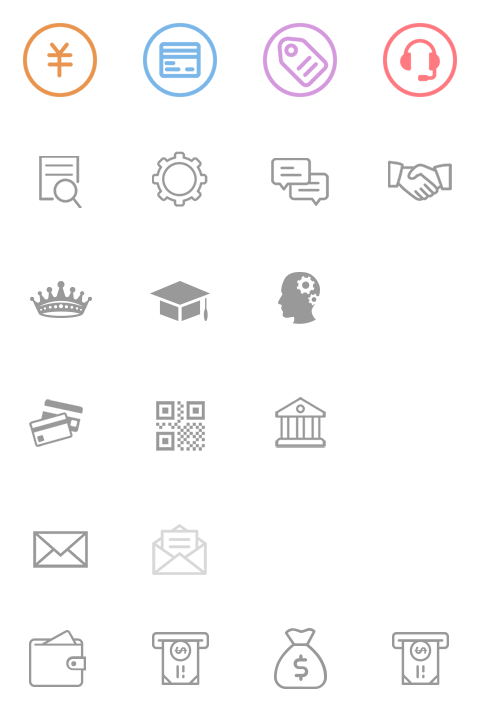
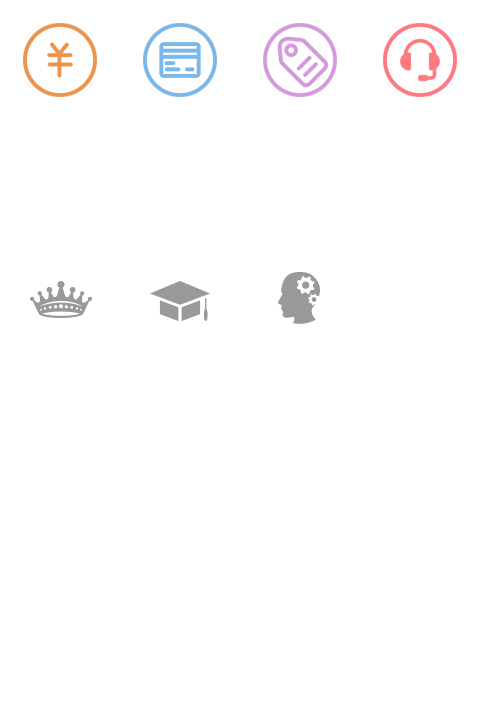
样式调整

diff --git a/static/frist/css/page.css b/static/frist/css/page.css
@@ -260,9 +260,9 @@ img.fixbot { position: fixed; bottom: 0; margin: 0 auto; width: 100%; left: 0; m
 .icon.icon_nav{ background-position: 0 0; }
 .icon.icon_trend{ background-position: -0.64rem 0;}
 .icon.icon_money{ background-position: 0 -0.64rem;}
-.icon.icon_money2{background-position: -2.56rem -1.92rem }
+/*.icon.icon_money2{background-position: -2.56rem -1.92rem }*/
 .icon.icon_user{ background-position: -1.28rem -0.64rem;}
-.icon.icon_user2{background-position: -1.92rem -1.92rem }
+/*.icon.icon_user2{background-position: -1.92rem -1.92rem }*/
 .icon.icon_index{ background-position: -1.92rem -1.28rem;}
 .icon.icon_history{ background-position: -2.56rem -1.28rem;}
 .icon.icon_record{ background-position: -3.2rem -1.28rem;}
@@ -299,12 +299,13 @@ img.fixbot { position: fixed; bottom: 0; margin: 0 auto; width: 100%; left: 0; m
 .icon_account.icon_deposit_1 { background-position: 0rem -4.5rem; }
 .icon_account.icon_deposit_2 { background-position: -1.5rem -4.5rem; }
 .icon_account.icon_deposit_3 { background-position: -3rem -4.5rem; }
-.icon_deposit_net1 {background-image: url(/static/frist/images/icon_deposit_1.png); background-size: 0.722222rem auto;  background-repeat: no-repeat; 	background-position: center center;	}
-.icon_deposit_net2 {background-image: url(/static/frist/images/icon_deposit_2.png); background-size: 0.722222rem auto;  background-repeat: no-repeat; 	background-position: center center;	}
-.icon_deposit_net3 {background-image: url(/static/frist/images/icon_deposit_3.png); background-size: 0.722222rem auto;  background-repeat: no-repeat; 	background-position: center center;	}
-.icon_deposit_net4 {background-image: url(/static/frist/images/icon_deposit_4.png); background-size: 0.722222rem auto;  background-repeat: no-repeat; 	background-position: center center;	}
-.icon_account.icon_notice_1 { background-position: 0rem -6rem; }
-.icon_account.icon_notice_2 { background-position: -1.5rem -6rem; }
+.icon_account.icon_deposit_net1 { background-position: -4.5rem -3rem;	} /* 微信 */
+.icon_account.icon_deposit_net2 { background-position: -4.5rem -4.5rem;	} /* 支付宝 */
+.icon_account.icon_deposit_net3 { background-position: -3rem -6rem;	} /* QQ */
+.icon_account.icon_deposit_net4 { background-position: -4.5rem -6rem;	} /* 京东钱包 */
+.icon_account.icon_deposit_net5 { background-position: -3rem -4.5rem;	} /* 同 icon_deposit_3 */
+.icon_account.icon_notice_1 { background-position: 0rem -6rem; } /* 个人消息(未读) */
+.icon_account.icon_notice_2 { background-position: -1.5rem -6rem; } /* 个人消息(已读) */
 .icon_account.icon_ac01 { background-position: 0rem -7.5rem; }
 .icon_account.icon_ac02 { background-position: -1.5rem -7.5rem; }
 .icon_account.icon_ac03 { background-position: -3rem -7.5rem; }
@@ -337,7 +338,7 @@ i.eye.active {  background-position: -3.84rem -1.92rem; }
 .round_ball.active, p.active .round_ball{ background-color:#bc0000;}
 
 /* k3 ball */
-.k3_dice {display: inline-block;vertical-align: middle;box-sizing: border-box;background: url(/static/frist/images/dice.png) no-repeat;background-size: 6rem auto;width: 1rem;height: 1rem;border-radius: 0.1rem; color: transparent;}
+.k3_dice {display: inline-block;vertical-align: middle;box-sizing: border-box;background: url(/static/frist/images/dice.png) no-repeat;background-size: 6rem auto;width: 1rem;height: 1rem;border-radius: 0.1rem; color: transparent; box-shadow: 0 0 0 1px #cbcbcb; -webkit-box-shadow: 0 0 0 1px #cbcbcb;}
 .k3_dice.num_20 {background: url(/static/frist/images/k3/dice_0.jpg) no-repeat center center;background-size: 1rem 1rem; }
 .k3_dice.num_1 {background-position-x: 0; }
 .k3_dice.num_2 {background-position-x: -1rem; }
@@ -450,6 +451,7 @@ i.eye.active {  background-position: -3.84rem -1.92rem; }
 .so-foot .bet_btn { position: absolute; bottom: 0rem; right: 2rem; }
 .so-foot .bet_btn > div { width: 1.6rem; height: 2rem; border-radius: 2rem 2rem 0 0; background: #52acd3; background: -moz-linear-gradient(top, #52acd3 0%, #4086bb 100%); background: -webkit-linear-gradient(top, #52acd3 0%,#4086bb 100%); background: linear-gradient(to bottom, #52acd3 0%,#4086bb 100%); }
 .so-foot .bet_btn > div:before{content: ''; display: block; width: 1rem; height: 1rem; background:url('/static/frist/images/bet_icon.svg') center center no-repeat; background-size: 1rem ; margin: 0 0.3rem; transform: translate(0,0.3rem)}
+.so-foot .bet_btn > div:after{content: ''; display: block; position: absolute; top:0; left: 0; right: 0; bottom: 0; z-index: 1; background: url('/static/frist/images/bet_btn_light.svg') no-repeat; background-size: 100% auto; }
 .so-foot .bet_btn > div p { letter-spacing: 0.1rem; transform: translateX(0.05rem); line-height: 0.9rem;  color: #fff; margin-top: 0.2rem; }
 
 .so-fengpan { display: block; background-color: rgba(0, 0, 0, 0.6); width: 10rem; height: 2rem; position: fixed; bottom: 0; z-index: 35; }
@@ -656,9 +658,11 @@ img.bet_ok { position: absolute; width: 100%; top: -2rem; left: 0; z-index: 1; }
 .lobby_past_view .prd_num > span { font-size: .35rem; float: left;}
 .lobby_past_view .prd_num02 { display: inline-block; padding-top: 0.1rem;  line-height: 0.79rem; font-size: .34rem;  text-align: right; color:#2b2b2b; }
 .lobby_past_view .time { display: inline-block; border-radius: .19rem;  line-height: 0.45rem; font-size: 0.32rem; text-align: center; margin-top: 0.12rem; padding: 0 0.1rem; border: 1px solid #dadada;color:#2b2b2b;}
-.lobby_past_view .pk10_top_number, .lobby_past_view .k3dice_top{ padding: 0.1rem 0; white-space: nowrap;}
+.lobby_past_view .lo_ball { padding: 0.2rem; }
+.lobby_past_view .pk10_top_number, .lobby_past_view .k3dice_top{ padding: 0.2rem 0; white-space: nowrap;}
 .lobby_past_view .pk10_top_number li{ display: inline-block; margin: 0 0.03rem; }
 .lobby_past_view .k3dice_top li{ display: inline-block; margin: 0 0.2rem; }
+.lobby_past_view .function_btn { padding: 0.1rem; }
 
 
 /* -----------------------------------------
@@ -792,7 +796,7 @@ fieldset { display: block; margin: .3rem 0; font-size: .34rem; text-align: left;
 .arrow_list_dark .badge{ background-color: #52acd3; border-radius: 50%;width: 1.5rem;height: 1.5rem; margin-right: 0.2rem; }
 .arrow_list_dark .icon{ float: right; margin-top: 0.45rem;}
 
-.deposit_area { padding: 0 0.3rem; }
+/*.deposit_area { padding: 0 0.3rem; }*/
 .pay_content {  }
 .pay_content .step03 { color: #ffc388; margin: 0 auto; text-align: left;}
 
@@ -864,15 +868,16 @@ fieldset { display: block; margin: .3rem 0; font-size: .34rem; text-align: left;
 /* 个人中心 */
 .info_area { width: 100%; }
 .info_area .page_box { padding-top: 0; }
-.info_top { height: 3.3rem; position: relative; margin: 0 auto; background-color: #fff; }
+.info_area .new_panel_top { border-bottom: 1px solid #dadada;}
+.info_top { height: 3.3rem; position: relative; margin: 0 auto; background-color: #52acd3; color: #fff; }
 .info_top .header { width: auto; }
 .info_top .account { width: 4rem; margin: 0 1rem 0 5rem; padding-top: 0.7rem; position: relative; height: 2rem; }
-.info_top .account > a { display: block; }
+.info_top .account > a { display: block; color: #fff; }
 
 .info_top .account .user_name { position:absolute; text-align: left; line-height: 1.8em; float: left; margin-top: .2rem; }
 .info_top .account .user_name  strong {  font-size: .4rem; }
-.info_top .account .user_name .purse{ margin-top: 0.2rem;  text-align: left; white-space: nowrap; padding:0; width: auto;}
-.info_top .account .user_name .purse .so-in-top-sum{ display: inline-block; vertical-align: middle; font-size: 0.4rem;margin-left: .7rem; color: #52acd3;}
+.info_top .account .user_name .purse{ margin-top: 0.2rem;  text-align: left; white-space: nowrap; width: auto;}
+.info_top .account .user_name .purse .so-in-top-sum{ display: inline-block;  font-size: 0.4rem;margin-left: .7rem; color: #52acd3;}
 
 
 .portrait { height: auto; position: relative; }
@@ -908,8 +913,8 @@ fieldset { display: block; margin: .3rem 0; font-size: .34rem; text-align: left;
 .info_bot > .btn_blue {  }
 .info_bot > ul { overflow: hidden; margin: 0 0.3rem; background-color: #fff; border: 1px solid #dadada; }
 .info_bot > ul > li { padding: 0 0.3rem; border-bottom: 1px solid #dadada; }
-.info_bot > ul > li > a { display: block;  font-size: 0.4rem; overflow: hidden; line-height: 1.5rem; vertical-align: middle; text-align: left; padding: .1rem; position: relative; }
-.info_bot > ul > li > a .icon_account { margin-right: .2rem;  }
+.info_bot > ul > li > a { display: block;  font-size: 0.4rem; overflow: hidden; line-height: 1.5rem; vertical-align: middle; text-align: left; padding: 0.2rem 0; position: relative; }
+.info_bot > ul > li > a .icon_account { margin-right: .2rem; background-color: #52acd3; border-radius: 50%;  }
 .info_bot > ul > li > a .icon { float: right; margin-top: 0.4rem; }
 .info_bot > ul > li > a .icon div { width: 1.2rem; height: 1.2rem; }
 .info_bot > ul > li > a .icon div > i { width: .8rem; height: .8rem; }

diff --git a/index.html b/index.html
@@ -23,6 +23,7 @@
     <!-- built files will be auto injected -->
 
      <script src="/static/js/jquery-2.2.3.min.js"></script>
+
     <!-- <script src="./static/js/touchslide.1.1.js"></script> -->
     <!-- <script src="./static/js/fastclick.js"></script> -->
     <!-- <script src="/static/js/common.js"></script> -->
@@ -30,6 +31,15 @@
     <script src="/static/js/mobiscroll.js"></script>
    <!-- <script src="/static/js/iscroll.js"></script>-->
     <script src="/static/js/iscroll-4.2.5.js"></script>
+    <script>
+        var hmt = hmt || [];
+        (function() {
+            var hm = document.createElement("script");
+            hm.src = "https://hm.baidu.com/hm.js?47324c45d422bf1aa9e691c53afdfb4a";
+            var s = document.getElementsByTagName("script")[0];
+            s.parentNode.insertBefore(hm, s);
+        })();
+    </script>
 
     <div style="display:none"><script language="javascript" type="text/javascript" src="//js.users.51.la/19351752.js"></script></div>
   </body>

diff --git a/src/components/lobbyTemplate/info.vue b/src/components/lobbyTemplate/info.vue
@@ -22,12 +22,12 @@
                             </h2>-->
                             <div class="user_name">
                                 <div class="">
-                                    <span class="icon icon_user2"></span>
+                                    <span class="icon icon_user"></span>
                                     <strong v-if="!demoName">{{userLogin}}</strong>
                                     <strong v-if="demoName">{{getCookie('username')}}</strong>
                                 </div>
                                 <div class="purse">
-                                    <span class="icon icon_money2"></span>
+                                    <span class="icon icon_money"></span>
                                     <div class="so-in-top-sum">
                                        {{fortMoney(roundAmt(Money), 2)}}
                                     </div>

diff --git a/src/components/lobbyTemplate/info_data.vue b/src/components/lobbyTemplate/info_data.vue
@@ -21,10 +21,10 @@
                                 </div>
                             </h2> -->
                             <div class="user_name">
-                                <span class="icon icon_user2"></span>
+                                <span class="icon icon_user"></span>
                                 <strong>{{loginName}}</strong>
                                 <div class="purse">
-                                    <span class="icon icon_money2"></span>
+                                    <span class="icon icon_money"></span>
                                     <div class="so-in-top-sum">{{memberbalance}}
 
                                     </div>
